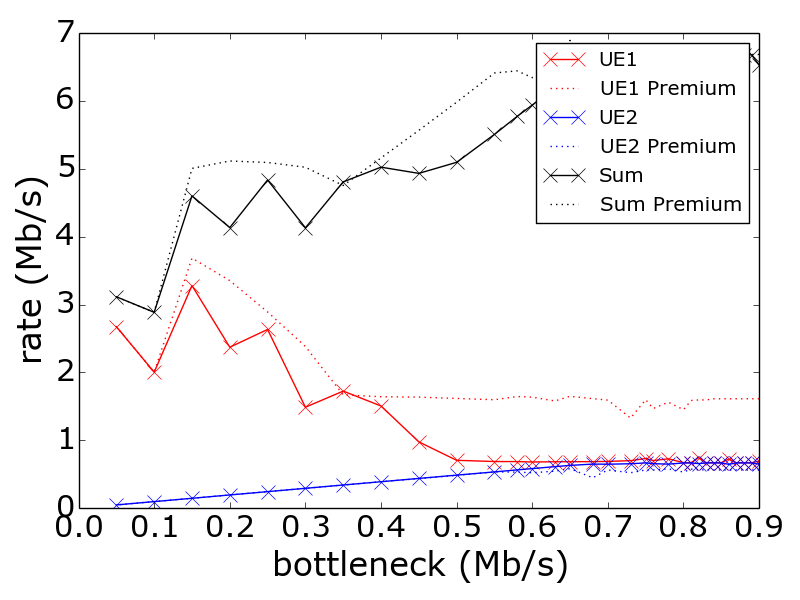
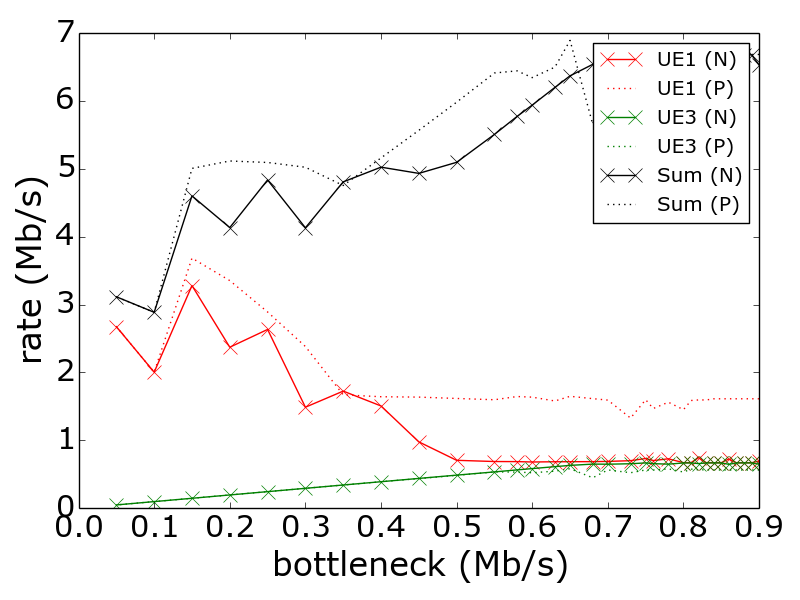
a

Changed region(s): [[0.6562, 0.06, 0.9375, 0.39], [0.1562, 0.75, 0.9688, 0.84]]

diff --git a/ns-3.24.1/run_diff_share_3/plot.py b/ns-3.24.1/run_diff_share_3/plot.py
@@ -70,8 +70,8 @@ for i in range(len(slowrate)):
 ax = plt.subplot()
 ax.plot(slowrate, ue_1_n, "-rx", ms=10)
 ax.plot(slowrate, ue_1_p, ":r", ms=10)
-ax.plot(slowrate, ue_2_n, "-bx", ms=10)
-ax.plot(slowrate, ue_2_p, ":b", ms=10)
+ax.plot(slowrate, ue_2_n, "-gx", ms=10)
+ax.plot(slowrate, ue_2_p, ":g", ms=10)
 ax.plot(slowrate, sum_n, "-kx", ms=10)
 ax.plot(slowrate, sum_p, ":k", ms=10)
 
@@ -86,7 +86,7 @@ ax.set_ylabel("rate (Mb/s)", fontsize=24)
 plt.tick_params(axis='both', which='major', labelsize=22)
 plt.tick_params(axis='both', which='minor', labelsize=22)
 
-ax.legend(["UE1", "UE1 Premium", "UE2", "UE2 Premium", "Sum", "Sum Premium"], 1)
+ax.legend(["UE1 (N)", "UE1 (P)", "UE3 (N)", "UE3 (P)", "Sum (N)", "Sum (P)"], 1)
 plt.tight_layout()
 plt.savefig('rate_vs_bottleneck.png')
 
